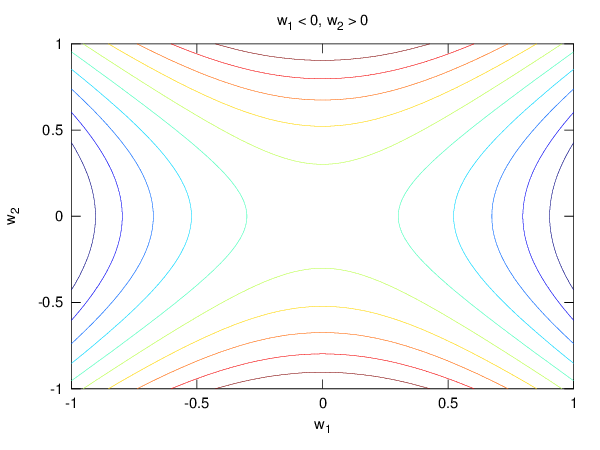
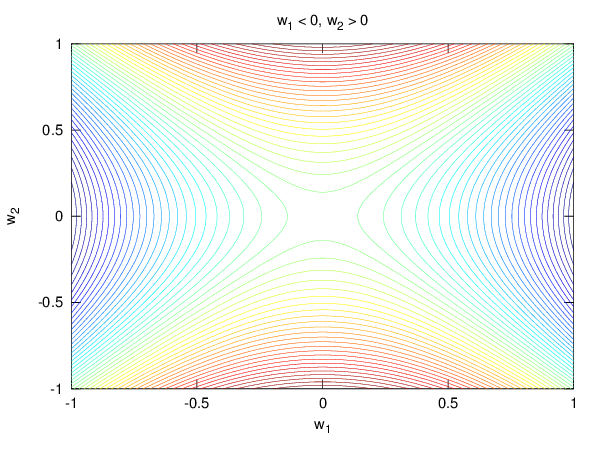
New plots.

Changed region(s): [[0.12, 0.0933, 0.96, 0.8711]]

diff --git a/week-05/src/plot_error_surface.m b/week-05/src/plot_error_surface.m
@@ -6,38 +6,25 @@ clear all;
 close all;
 clc;
 
-% Plots a given nonlinear transformation
-function plottrans (spc, f, tit)
-  x = y = linspace (spc(1), spc(2));
-
-  [xx, yy] = meshgrid (x', y');
-
-  contour (xx, yy, arrayfun (f, xx, yy));
-  title (tit);
-
-  xlabel ("w_1");
-  ylabel ("w_2");
-end
-
 % Axis limits
 limits = [-1 1];
 
 % Plots each proposed error surface
 
 % h = figure (1);
-% plottrans (limits, @ (w1, w2) w2^2, "w_1 = 0, w_2 > 0");
+% ploterrfunc (limits, @ (w) w(2)^2, "w_1 = 0, w_2 > 0");
 
 % h = figure (2);
-% plottrans (limits, @ (w1, w2) w1^2, "w_1 > 0, w_2 = 0");
+% ploterrfunc (limits, @ (w) w(1)^2, "w_1 > 0, w_2 = 0");
 
 % h = figure (3);
-% plottrans (limits, @ (w1, w2) w1^2 + w2^2,  "w_1 > 0, w_2 > 0");
+% ploterrfunc (limits, @ (w) w(1)^2 + w(2)^2,  "w_1 > 0, w_2 > 0");
 
 h = figure (4);
-plottrans (limits, @ (w1, w2) -w1^2 + w2^2, "w_1 < 0, w_2 > 0");
+ploterrfunc (limits, @ (w) -w(1)^2 + w(2)^2, "w_1 < 0, w_2 > 0");
 
 % h = figure (5);
-% plottrans (limits, @ (w1, w2) w1^2 + -w2^2, "w_1 > 0, w_2 < 0");
+% ploterrfunc (limits, @ (w) w(1)^2 + -w(2)^2, "w_1 > 0, w_2 < 0");
 
 % Uncomment the following line in order to save the plot to a PNG file
 % saveplot (h, 4, 3, "../img/plot_error_surface.png");

diff --git a/week-05/src/plot_gd.m b/week-05/src/plot_gd.m
@@ -1,0 +1,55 @@
+1;
+
+addpath ("./common");
+
+clear all;
+close all;
+clc;
+
+h = figure (1);
+
+hold on;
+
+% Learning rate
+eta = 0.1;
+
+% Error tolerance
+errprec = 10^-21;
+
+% Plot limits
+limits = [-2 2];
+
+% Initial weight
+w = ones (2, 1);
+
+% Maximum number of GD iterations
+iters = 15;
+
+% Plots the error surface
+ploterrfunc (limits, @errfunc, "Gradient Descent");
+
+% Weights for each epoch
+ws = [w'];
+
+% Same as gd function, but keeps track of all changes in w
+for epoch = 1:iters
+
+  % Updates the weights
+  w += -eta * errfuncgrad (w);
+
+  ws(epoch+1,:) = w';
+
+  % termination criterion
+  if (errfunc (w) < errprec)
+     break;
+  end
+end
+
+%
+
+axis ([-2 2 -2 2]);
+plot (ws(:,1), ws(:,2), "m-x", "MarkerSize", 3);
+legend ("", "Iterations");
+
+% Uncomment the following line in order to save the plot to a PNG file
+% saveplot (h, 4, 3, "../img/plot_gd.png");

diff --git a/week-05/src/q05q06.m b/week-05/src/q05q06.m
@@ -5,21 +5,6 @@ addpath ("./common");
 clear all;
 clc;
 
-% Function that defines the error surface
-errfunc = @ (w) (w(1) * exp (w(2)) - 2*w(2) * exp (-w(1)))^2;
-
-% Function that computes the gradient for the error surface
-function nw = errfuncgrad (w)
-  u = w(1);
-  v = w(2);
-
-  % Partial derivative with respect to u and v, respectively
-  du = 2 * exp (-2*u) * (u*exp (u+v) - 2*v) * (exp (u+v) + 2*v);
-  dv = 2 * exp (-2*u) * (u*exp (u+v) - 2) * (u*exp (u+v) - 2*v);
-
-  nw = [du; dv];
-end
-
 % Learning rate
 eta = 0.1;
 
@@ -33,7 +18,7 @@ iters = 1000;
 w= ones (2, 1);
 
 % Runs gradient descent
-[w, epoch] = gd (w, eta, errfunc, @errfuncgrad, errprec, iters);
+[w, epoch] = gd (w, eta, @errfunc, @errfuncgrad, errprec, iters);
 
 fprintf ("Num of iterations: %d\n", epoch);
 fprintf ("Final value of w : (%f, %f)\n", w');

diff --git a/week-05/src/q07.m b/week-05/src/q07.m
@@ -5,21 +5,6 @@ addpath ("./common");
 clear all;
 clc;
 
-% Function that defines the error surface
-errfunc = @ (w) (w(1) * exp (w(2)) - 2*w(2) * exp (-w(1)))^2;
-
-% Function that computes the gradient for the error surface
-function nw = errfuncgrad (w)
-  u = w(1);
-  v = w(2);
-
-  % Partial derivative with respect to u and v, respectively
-  du = 2 * exp (-2*u) * (u*exp (u+v) - 2*v) * (exp (u+v) + 2*v);
-  dv = 2 * exp (-2*u) * (u*exp (u+v) - 2) * (u*exp (u+v) - 2*v);
-
-  nw = [du; dv];
-end
-
 % Learning rate
 eta = 0.1;
 
@@ -33,6 +18,6 @@ iters = 15;
 w= ones (2, 1);
 
 % Runs coordinate descent
-[w, epoch] = cgd (w, eta, errfunc, @errfuncgrad, errprec, iters);
+[w, epoch] = cgd (w, eta, @errfunc, @errfuncgrad, errprec, iters);
 
 fprintf ("Ein: %f\n", errfunc (w));

diff --git a/week-05/src/common/errfuncgrad.m b/week-05/src/common/errfuncgrad.m
@@ -1,0 +1,11 @@
+% Function that computes the gradient for the error surface
+function nw = errfuncgrad (w)
+  u = w(1);
+  v = w(2);
+
+  % Partial derivative with respect to u and v, respectively
+  du = 2 * exp (-2*u) * (u*exp (u+v) - 2*v) * (exp (u+v) + 2*v);
+  dv = 2 * exp (-2*u) * (u*exp (u+v) - 2) * (u*exp (u+v) - 2*v);
+
+  nw = [du; dv];
+end

diff --git a/week-05/src/common/ploterrfunc.m b/week-05/src/common/ploterrfunc.m
@@ -1,0 +1,13 @@
+% Plots a given nonlinear transformation
+function ploterrfunc (spc, f, tit)
+  x = y = linspace (spc(1), spc(2));
+
+  [xx, yy] = meshgrid (x', y');
+
+  contour (xx, yy, arrayfun (@ (u, v) f ([u;v]), xx, yy), 50);
+  title (tit);
+
+  xlabel ("w_1");
+  ylabel ("w_2");
+end
+

diff --git a/week-05/src/common/errfunc.m b/week-05/src/common/errfunc.m
@@ -1,0 +1,4 @@
+% Surface that represents the error function
+function nw = errfunc (w)
+  nw = (w(1) * exp (w(2)) - 2*w(2) * exp (-w(1)))^2;
+end
